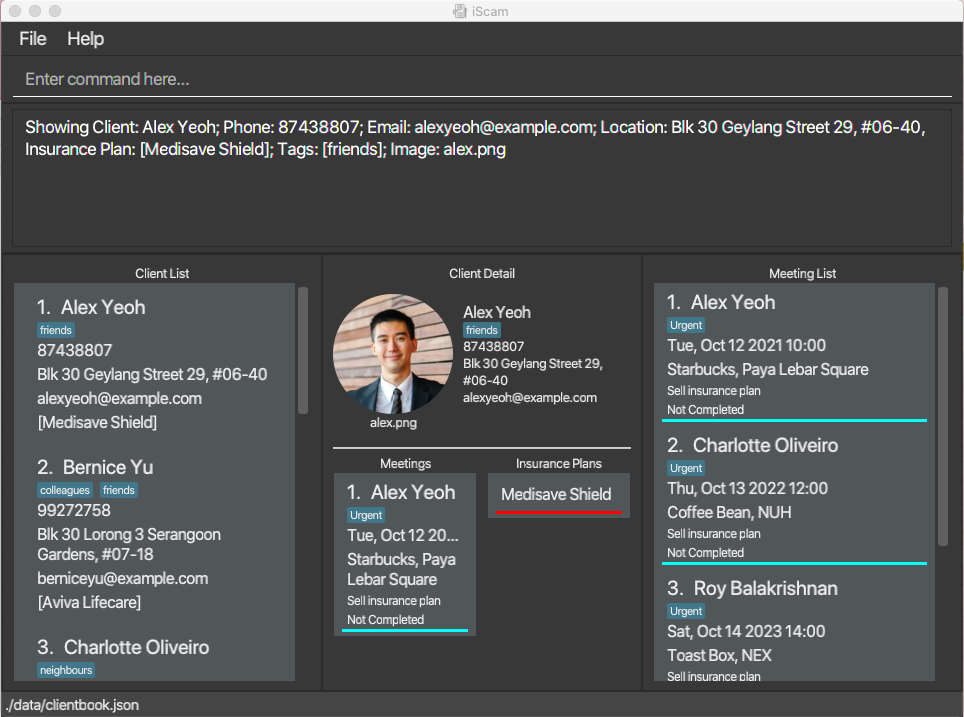
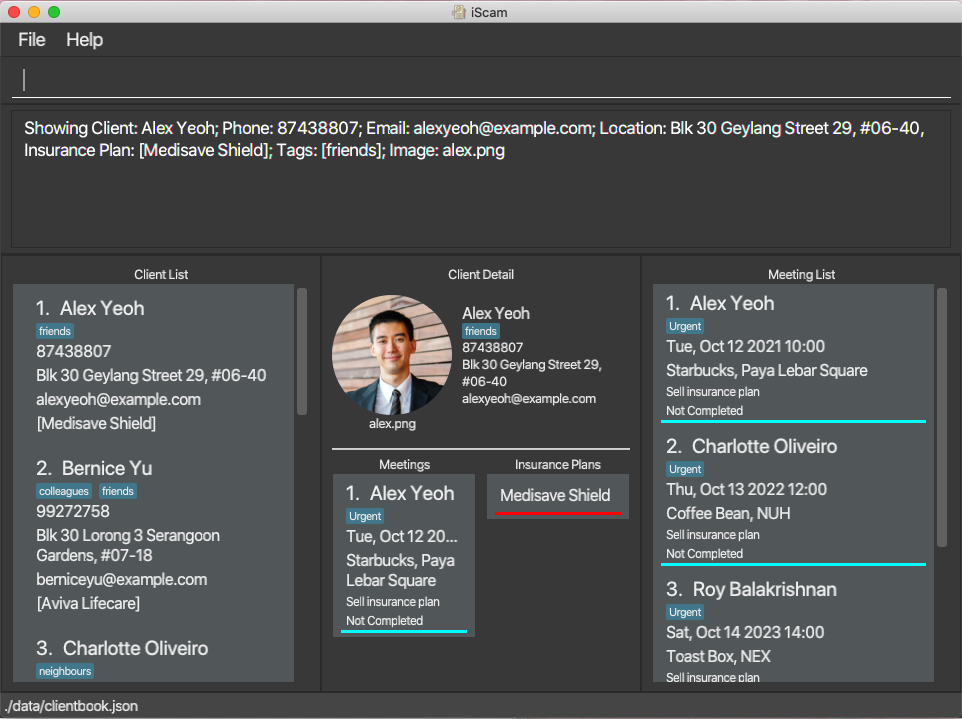
Update Ui.png because it is not cropped perfectly

diff --git a/docs/index.md b/docs/index.md
@@ -6,7 +6,7 @@ title: iScam
 [![CI Status](https://github.com/se-edu/addressbook-level3/workflows/Java%20CI/badge.svg)](https://github.com/AY2021S2-CS2103-W17-4/tp/actions)
 [![codecov](https://codecov.io/gh/se-edu/addressbook-level3/branch/master/graph/badge.svg)](https://app.codecov.io/gh/AY2021S2-CS2103-W17-4/tp)
 
-![Ui](images/ActualUi.png)
+![Ui](images/Ui.png)
 
 **Welcome to iSCAM, client and meeting management app.** It helps catalogue and manage your clients' information, including upcoming appointments with them, and allows you to retrieve these data efficiently. iSCAM also presents your scheduled appointments
 in a one-page solution, where you can easily see your upcoming meetings. While it has a GUI, most of the user interactions happen using a CLI (Command Line Interface).
